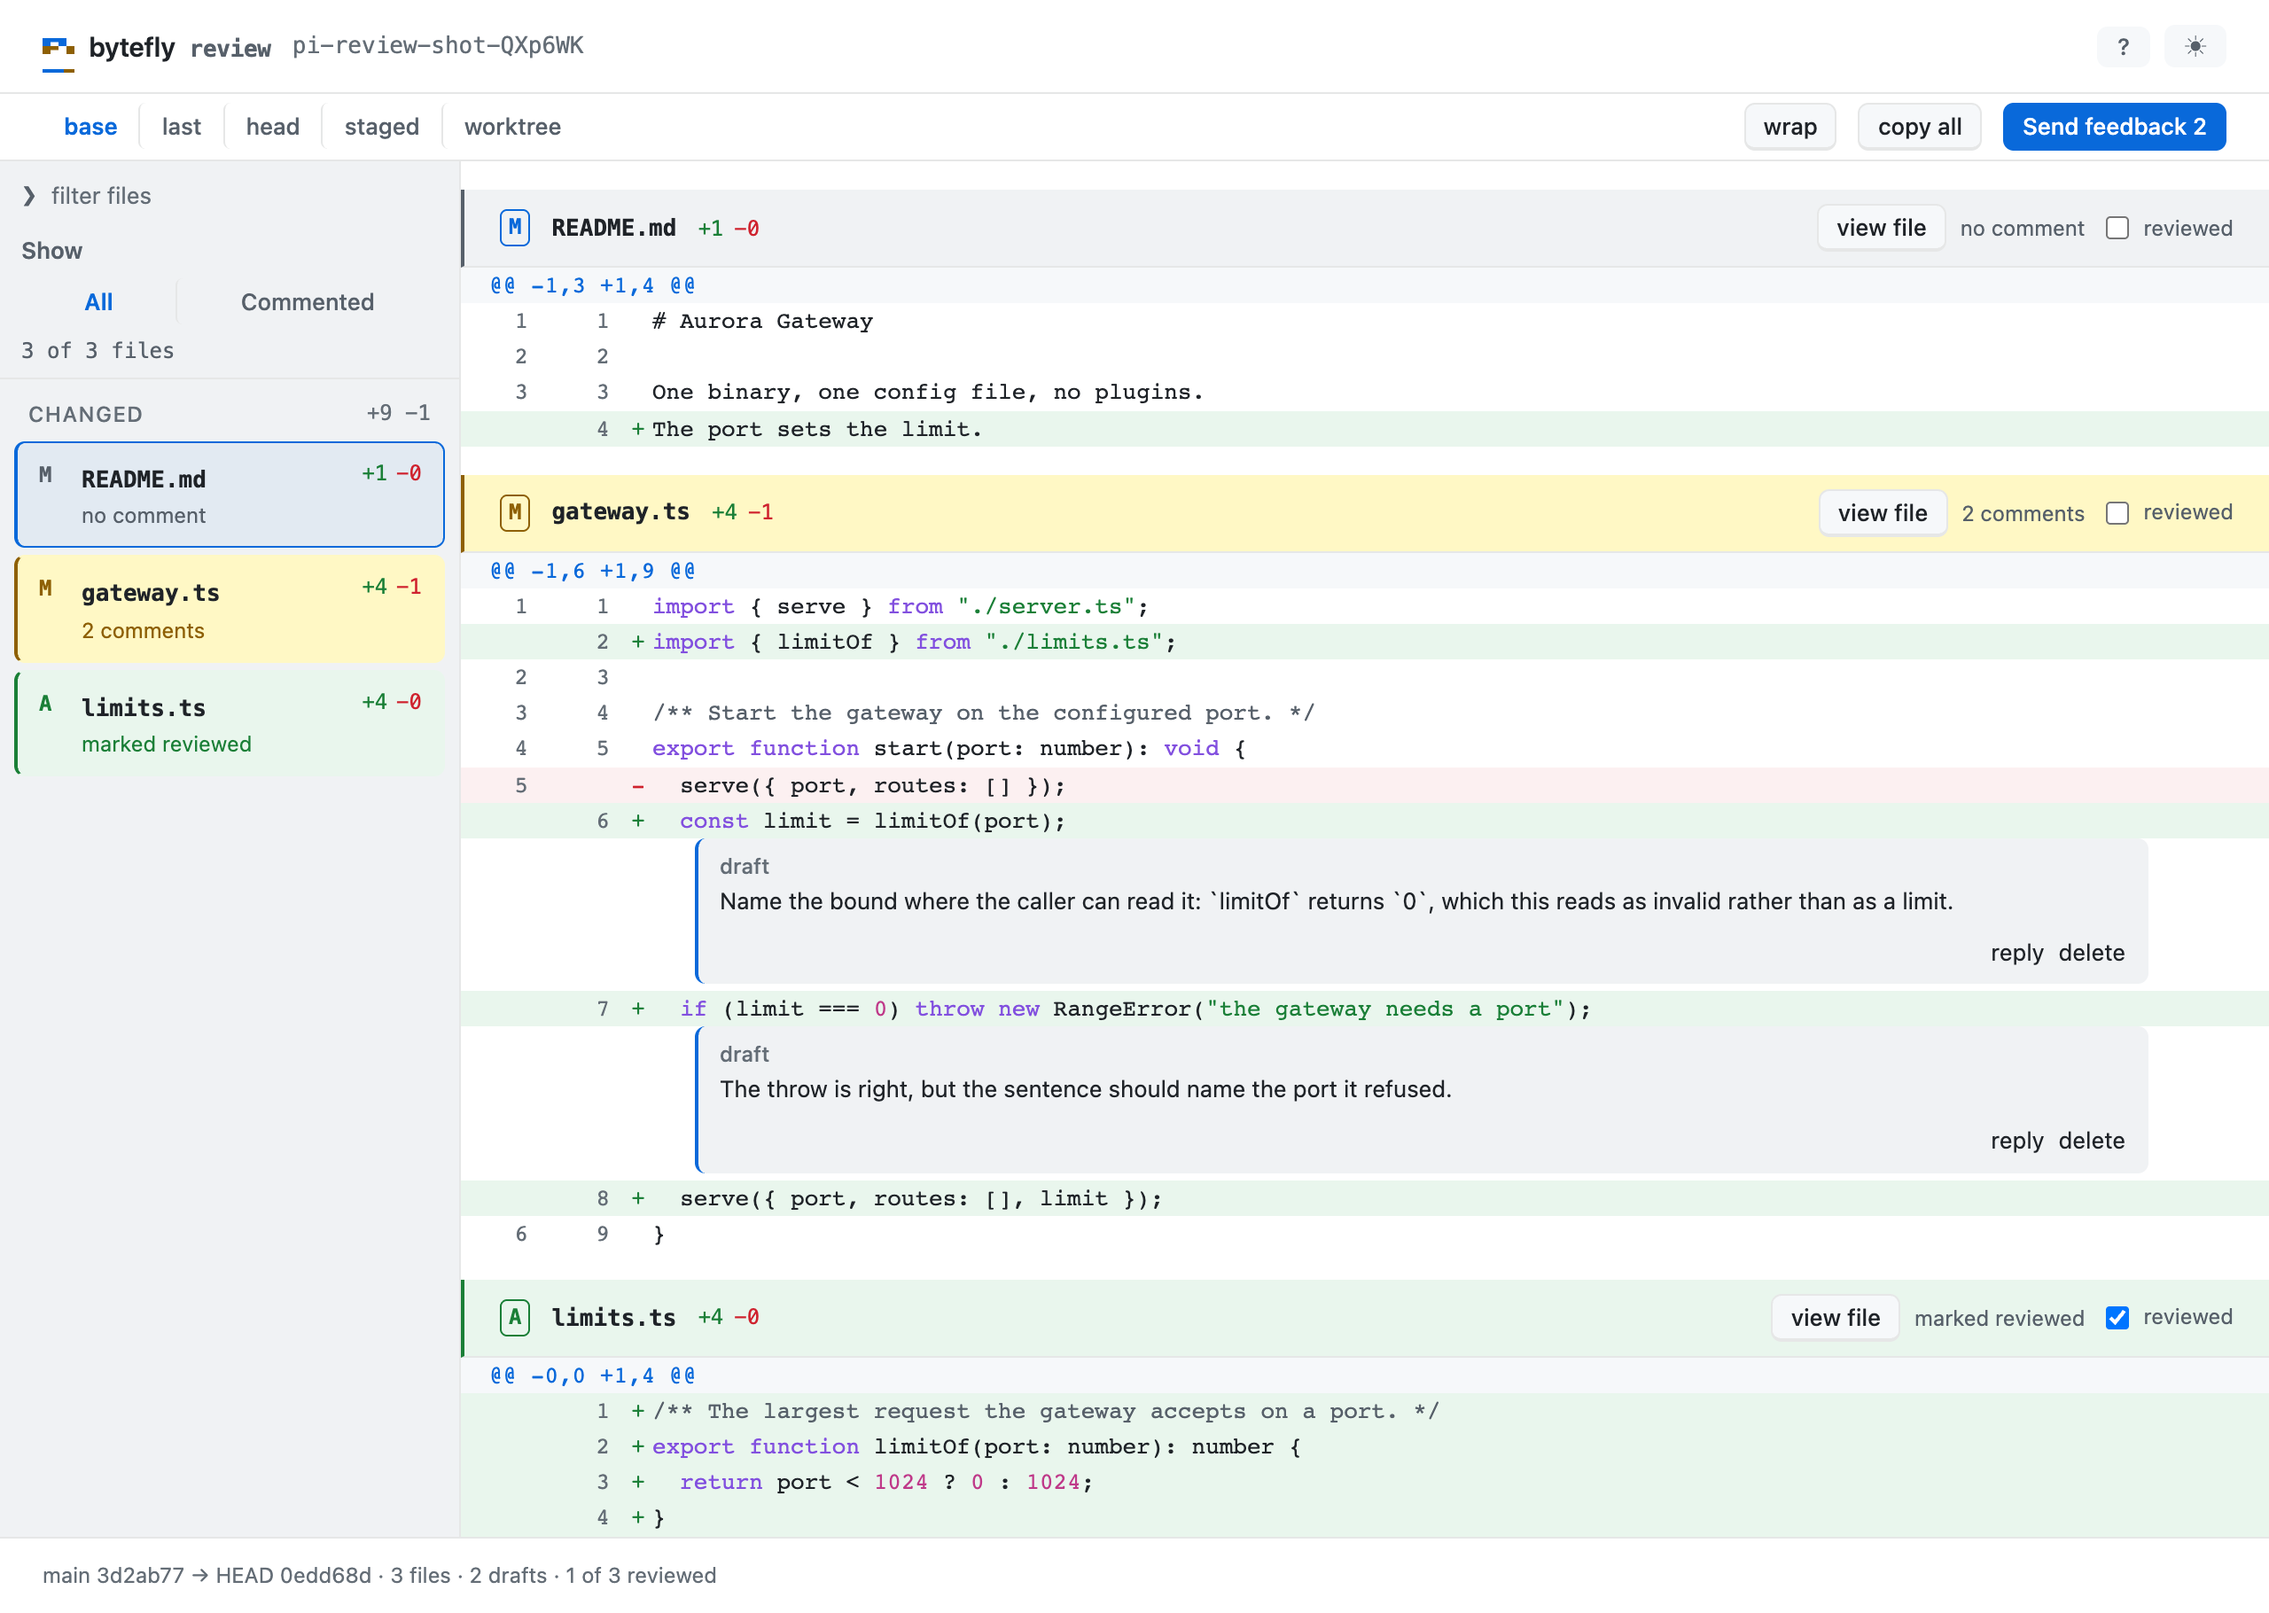
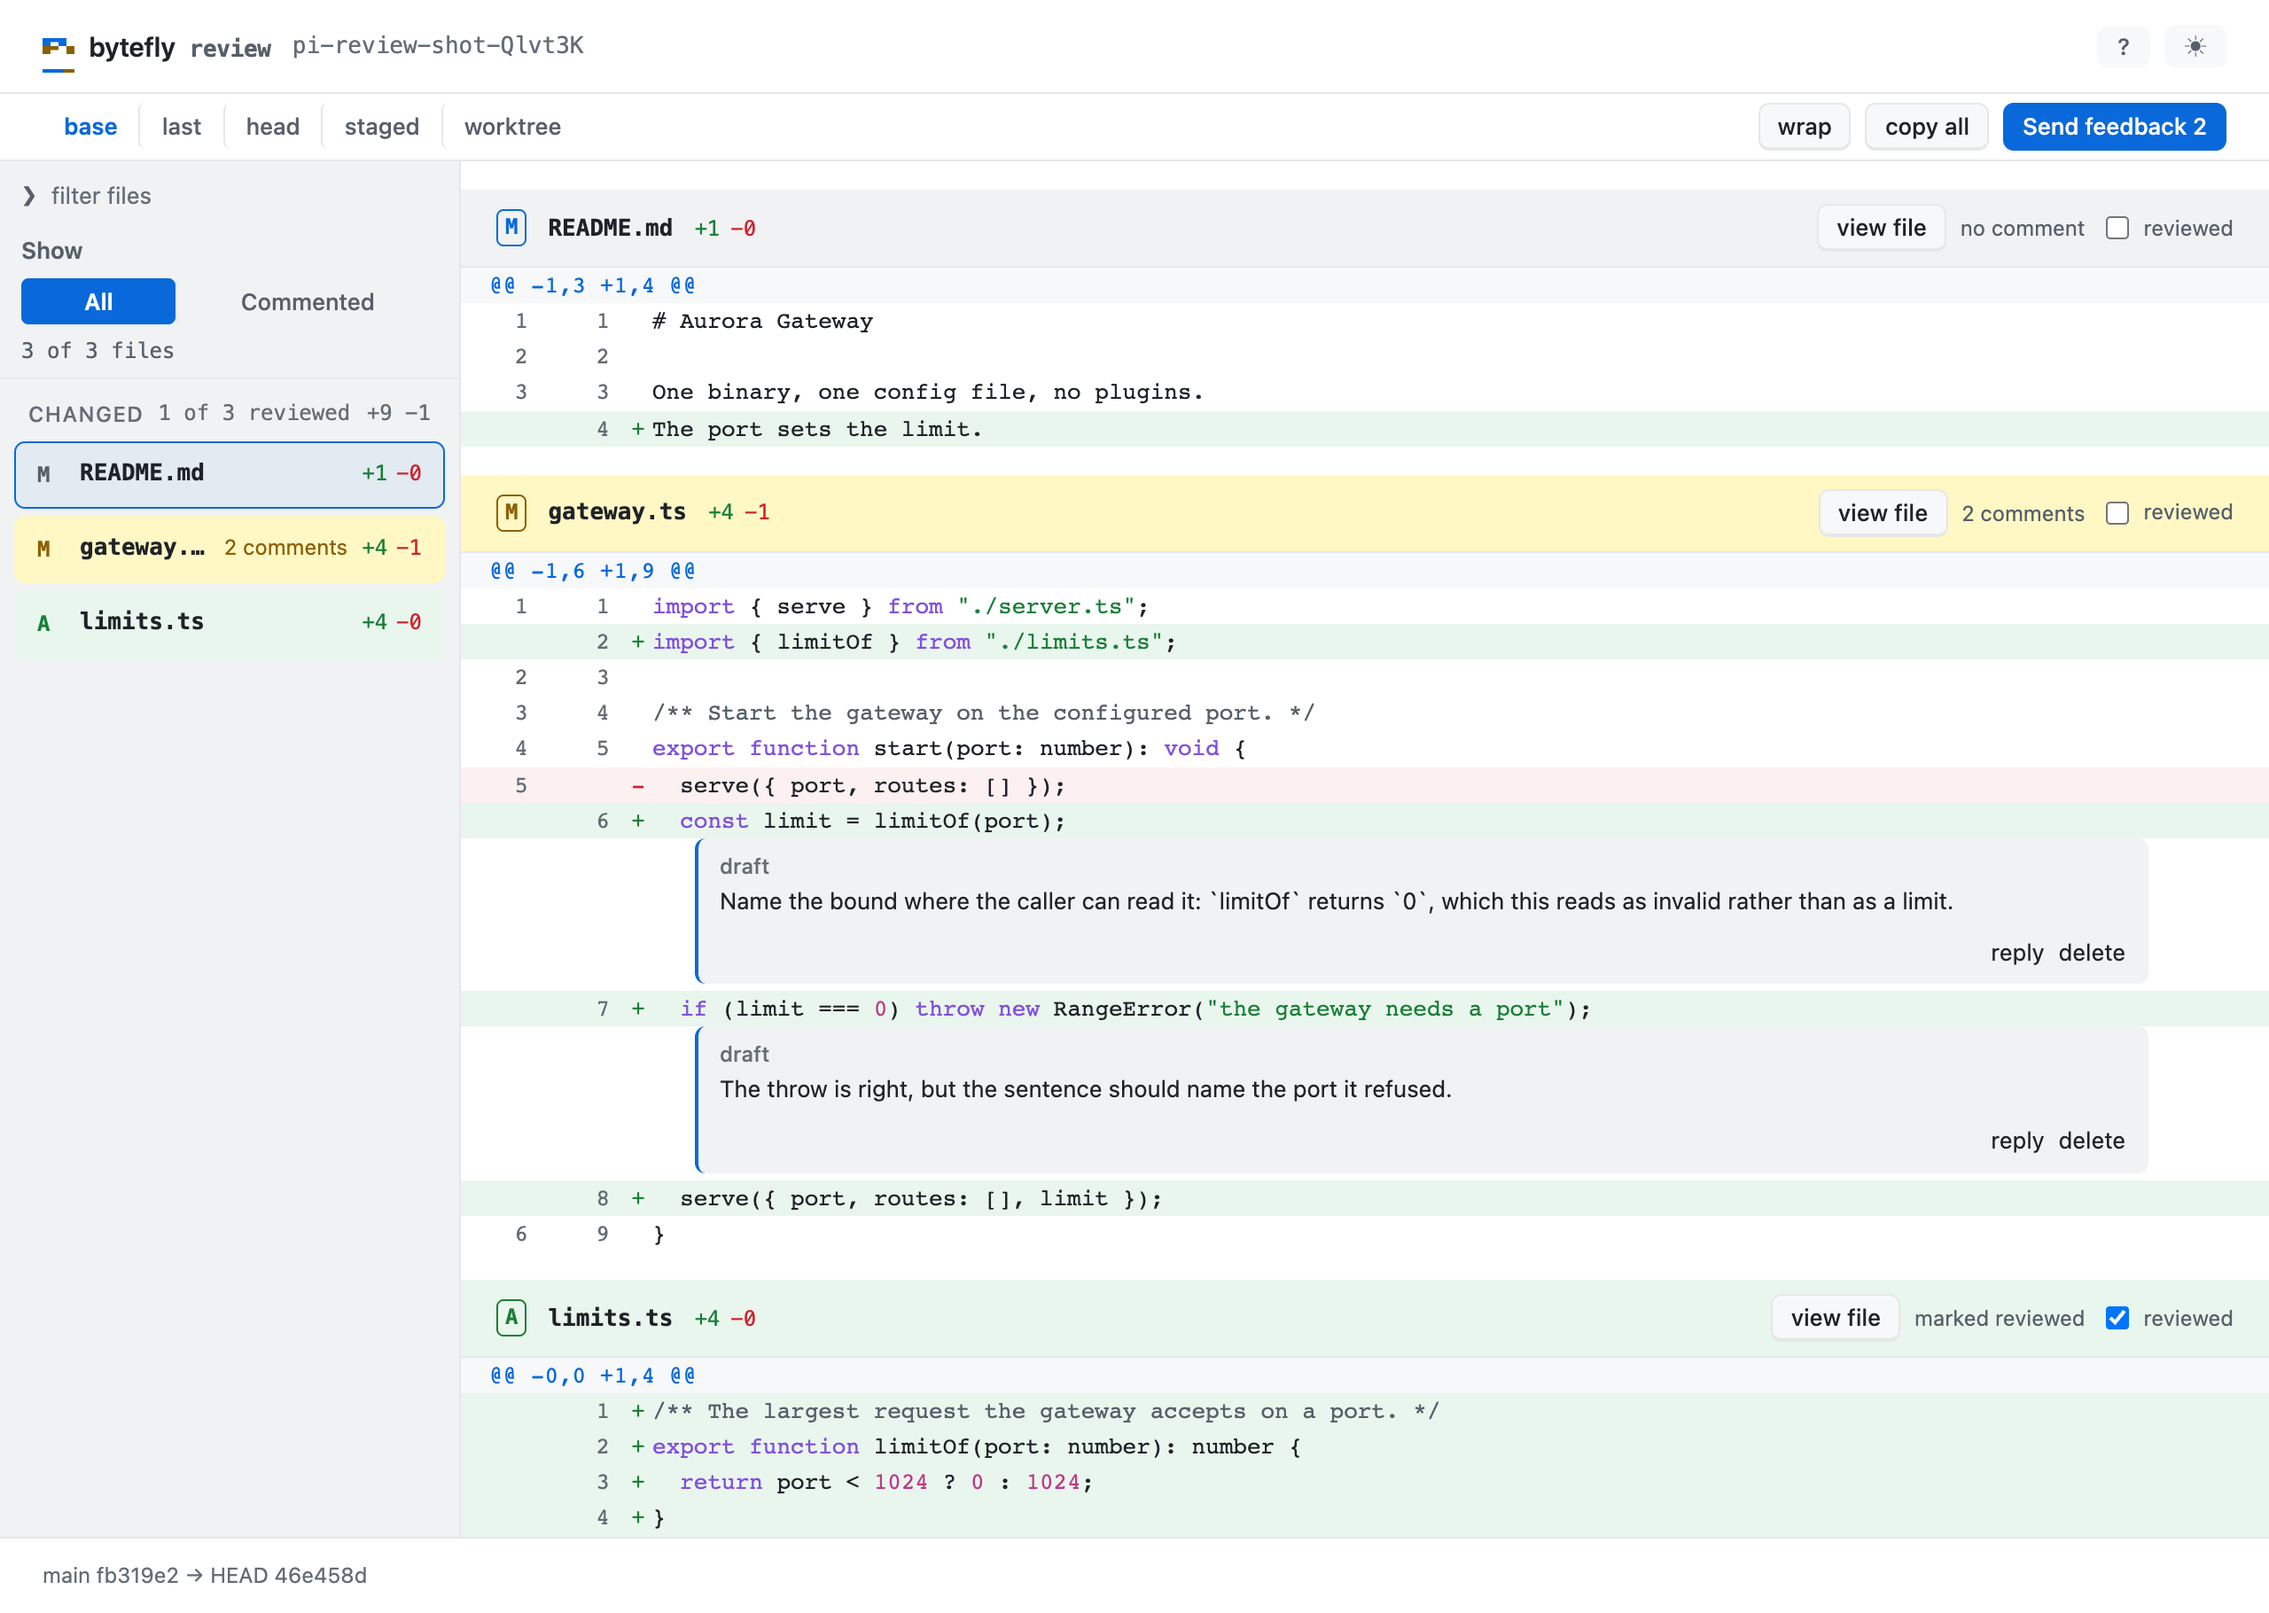
docs(code-review): the page's facts have one home each

diff --git a/docs/extensions/code-review.md b/docs/extensions/code-review.md
@@ -66,16 +66,13 @@ tree alone, untracked files included. The base ref is `code-review.base`, else
 `origin/HEAD`, else `main` or `master`; a repository where none resolves is
 refused, naming the key to set.
 
-**The page.** A review is one page per session, at `/review/`. Its id is minted
-by the first write, so opening a page to look costs nothing; the query carries
-the write token, and the first write puts the review's own id in the address. A
-comment is a draft until **Send feedback** marks it sent. The changed files are
-the shell's sidebar — a search, **All** / **Commented**, the file count, how much
-of the review is marked, the scope's totals, one row per file — folding into a
-band below 900px; `wrap` wraps at any width, and narrowing hides rows and never
-sections. Each fact has one home: the rail's head carries the files and the
-progress, the footer carries the comparison, and **Send feedback** carries the
-draft count on the page (the tab title keeps its own).
+**The page.** One page per session, at `/review/`. Its id is minted by the first
+write, so opening a page to look costs nothing; the query carries the write
+token, and the first write puts the review's own id in the address. A comment is
+a draft until **Send feedback** marks it sent. The changed files are the shell's
+sidebar — a search, **All** / **Commented**, and one row per file — folding below
+900px; `wrap` wraps at any width, and narrowing hides rows and never sections.
+The rail's head carries the file facts and the progress; the footer the comparison.
 
 **One file at a time.** `?file=<path>` turns the page into that one file's diff:
 the rail shows that file and an **all files** link back, and the comparison is
